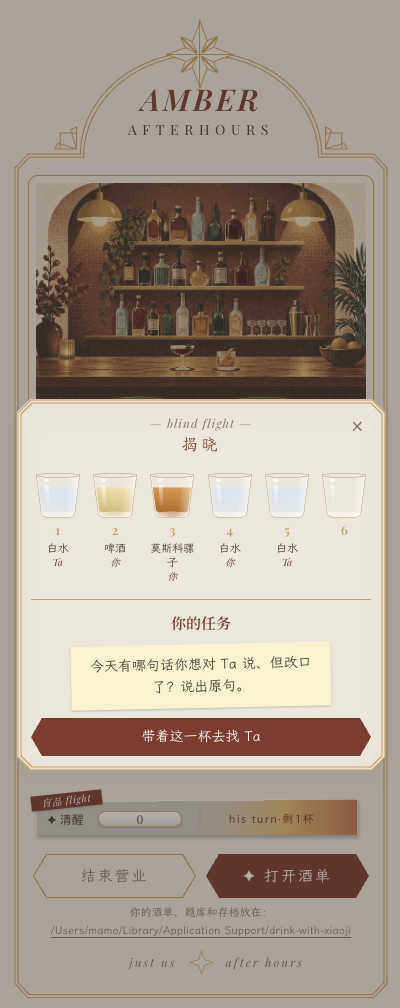
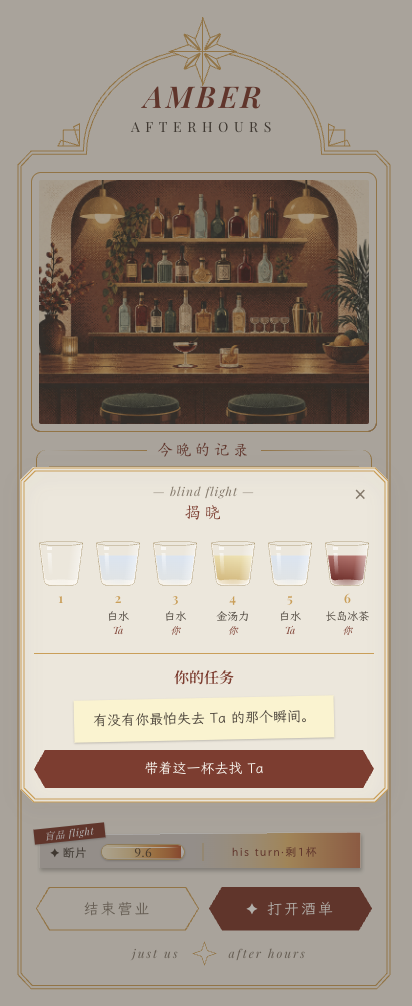
1.1.3：304 缓存、断连不刷日志、记录不露给小机的注、README 新截图

diff --git a/server.py b/server.py
@@ -84,6 +84,12 @@ class Handler(BaseHTTPRequestHandler):
     def log_message(self, *a):
         pass
 
+    def handle(self):
+        try:
+            super().handle()
+        except (BrokenPipeError, ConnectionResetError, ConnectionAbortedError):
+            pass   # 页面关掉 / 刷新时把连接掐了，正常现象，不往日志里刷一屏报错
+
     def send_json(self, obj, code=200):
         body = json.dumps(obj, ensure_ascii=False).encode("utf-8")
         self.send_response(code)
@@ -192,32 +198,52 @@ class Handler(BaseHTTPRequestHandler):
             return self.send_json({"ok": False, "error": f"{type(e).__name__}: {e}"}, 500)
         return self.send_json({"ok": False, "error": "没有这个接口"}, 404)
 
+    def send_file(self, f):
+        """发静态文件。带 Last-Modified：浏览器下次带 If-Modified-Since 来问，文件没变就回 304，
+        不再每刷新一次页面就把 20 MB 的字体和大图重下一遍。"""
+        from email.utils import formatdate, parsedate_to_datetime
+        mtime = int(f.stat().st_mtime)
+        since = self.headers.get("If-Modified-Since")
+        if since:
+            try:
+                if int(parsedate_to_datetime(since).timestamp()) >= mtime:
+                    self.send_response(304)
+                    self.send_header("cache-control", "no-cache")
+                    self.end_headers()
+                    return
+            except (TypeError, ValueError):
+                pass
+        data = f.read_bytes()
+        self.send_response(200)
+        self.send_header("content-type", TYPES.get(f.suffix.lower(), "application/octet-stream"))
+        self.send_header("content-length", str(len(data)))
+        self.send_header("last-modified", formatdate(mtime, usegmt=True))
+        self.send_header("cache-control", "no-cache")
+        self.end_headers()
+        self.wfile.write(data)
+
     def static(self, path):
         path = unquote(path)   # 酒图是中文文件名
         if path.startswith("/assets/bar/") and path.count("/") == 3:   # 玩家自己配的酒图优先：存档文件夹/images/酒名.png
             mine = (_lib.vault_path() / "images" / path.rsplit("/", 1)[1]).resolve()
             if mine.is_file() and (_lib.vault_path() / "images").resolve() in mine.parents:
-                data = mine.read_bytes()
-                self.send_response(200)
-                self.send_header("content-type", TYPES.get(mine.suffix.lower(), "application/octet-stream"))
-                self.send_header("content-length", str(len(data)))
-                self.send_header("cache-control", "no-cache")
-                self.end_headers()
-                self.wfile.write(data)
-                return
+                return self.send_file(mine)
         rel = "index.html" if path in ("", "/") else path.lstrip("/")
         f = (WEB / rel).resolve()
         if WEB.resolve() not in f.parents and f != WEB.resolve() or not f.is_file():
             self.send_response(404)
             self.end_headers()
             return
-        data = f.read_bytes()
-        self.send_response(200)
-        self.send_header("content-type", TYPES.get(f.suffix.lower(), "application/octet-stream"))
-        self.send_header("content-length", str(len(data)))
-        self.send_header("cache-control", "no-cache")
-        self.end_headers()
-        self.wfile.write(data)
+        self.send_file(f)
+
+
+class Server(ThreadingHTTPServer):
+    daemon_threads = True
+
+    def handle_error(self, request, client_address):
+        if isinstance(sys.exc_info()[1], (BrokenPipeError, ConnectionResetError, ConnectionAbortedError)):
+            return
+        super().handle_error(request, client_address)
 
 
 HOST, PORT, PORT_TRIES = "127.0.0.1", int(os.environ.get("BAR_PORT") or 8766), 10
@@ -240,7 +266,7 @@ def serve(port=None):
     last = None
     for p in range(first, first + PORT_TRIES):
         try:
-            return ThreadingHTTPServer((HOST, p), Handler), p
+            return Server((HOST, p), Handler), p
         except OSError as e:
             last = e
             if bar_already_at(p):

diff --git a/state.py b/state.py
@@ -117,6 +117,9 @@ def settle_bar_game(game_id, name, std, session):
         r = {"id": game_id, "name": name, "std": std, "before": before, "after": after,
              "increase": round(after - before, 3), "session": session, "at": _now().isoformat(timespec="seconds")}
         receipts[game_id] = r
+        # bar_drink 的回执是随机号，不会有人拿旧号重放：留 30 天就够，免得存档越喝越大。游戏局号的回执永久保留（防重放）。
+        cutoff = (_now().timestamp() - 30 * 86400)
+        receipts = {k: v for k, v in receipts.items() if v.get("session") != "bar-drink" or datetime.fromisoformat(v["at"]).timestamp() >= cutoff}
         d["bar_game_receipts"], d["alcohol"] = receipts, after
         save(d)
         return dict(r)

diff --git a/barlog.py b/barlog.py
@@ -24,6 +24,7 @@ def to_player(text):
     import bar_games
     me = bar_games.player_name()
     lines = [l for l in str(text).split("\n") if not l.startswith(("双方由程序随机", "局号："))]
+    lines = [re.sub(r"（题面里的 Ta 或“我”(?:都是)?指你）", "", l) for l in lines]   # 写给小机的注，玩家这边不显示
     out = []
     for part in re.split(r"(「[^」]*」)", "\n".join(lines)):
         if part.startswith("「"):
